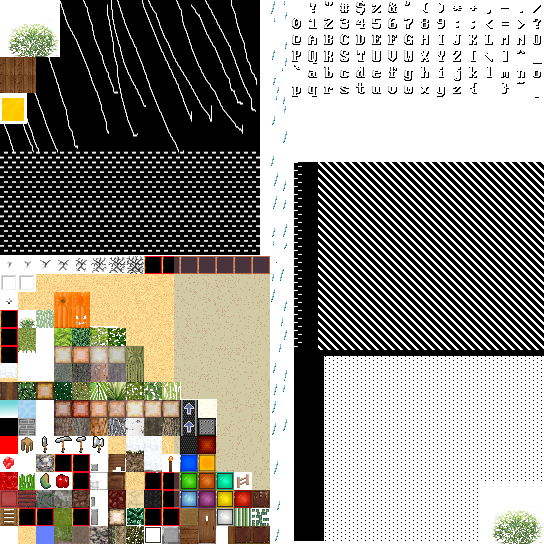
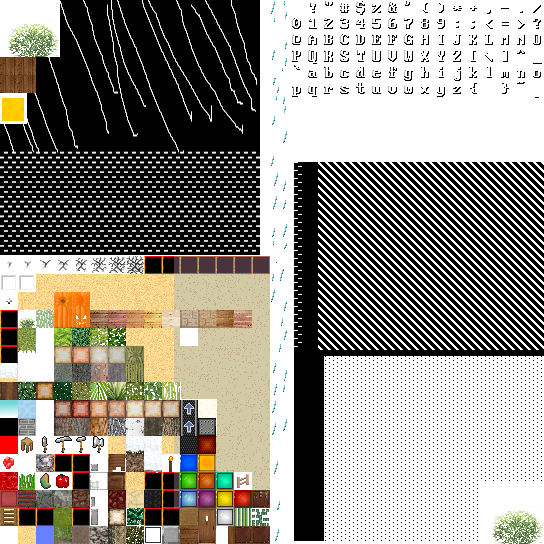
pumpkins and planks

Changed region(s): [[0.1562, 0.5625, 0.4688, 0.6562]]

diff --git a/lib/src/blockinfo.rs b/lib/src/blockinfo.rs
@@ -6,7 +6,7 @@ pub const BLOCK_DIRECTION_BITS: u32 =       0b0000_0000_0000_0011_0000_0000_0000
 pub const BLOCK_MARKED_FOR_DELETION: u32 = 0b0000_0000_0000_0100_0000_0000_0000_0000;
 pub struct Blocks {}
 
-pub const BLOCK_COUNT: u32 = 81;
+pub const BLOCK_COUNT: u32 = 90;
 
 static BREAKTIMES: [f32; BLOCK_COUNT as usize] = [
     0.1,
@@ -90,7 +90,12 @@ static BREAKTIMES: [f32; BLOCK_COUNT as usize] = [
     1.0, 
 
     1.0,
-    1.0
+    1.0,
+
+
+    1.0, 1.0, 1.0,
+    1.0, 1.0, 1.0,
+    1.0, 1.0, 1.0,
 ];
 
 static TEXS: [[(u8, u8); 3]; BLOCK_COUNT as usize] = [
@@ -201,6 +206,16 @@ static TEXS: [[(u8, u8); 3]; BLOCK_COUNT as usize] = [
 
             [(3, 12), (4, 13), (3, 13)],  // 79 Pumpkin
             [(4, 12), (4, 13), (3, 13)],  // 80 Jack o lantern
+
+            [(5, 12), (5, 12), (5, 12)],  // 81 Pine Planks
+            [(6, 12), (6, 12), (6, 12)],  // 82 Cedar Planks
+            [(7, 12), (7, 12), (7, 12)], // 83 Palm Planks
+            [(8, 12), (8, 12), (8, 12)], // 84 Joshua Planks
+            [(9, 12), (9, 12), (9, 12)], // 85 Birch Planks
+            [(10, 12), (10, 12), (10, 12)], // 86 Willow Planks
+            [(11, 12), (11, 12), (11, 12)], // 87 Beech Planks
+            [(12, 12), (12, 12), (12, 12)], // 88 Western Hemlock Planks
+            [(13, 12), (13, 12), (13, 12)], // 89 Eucalyptus Planks
         ];
 
 
@@ -305,6 +320,17 @@ impl Blocks {
             78 => {"Saguaro Block"}
             79 => {"Pumpkin"}
             80 => {"Jack o lantern"}
+            
+            81 => {"Pine Planks"}
+            82 => {"Cedar Planks"}
+            83 => {"Palm Planks"}
+            84 => {"Joshua Planks"}
+            85 => {"Birch Planks"}
+            86 => {"Willow Planks"}
+            87 => {"Beech Planks"}
+            88 => {"Western Hemlock Planks"}
+            89 => {"Eucalyptus Planks"}
+
             _ => {
                 "Unknown Item"
             }
@@ -462,7 +488,7 @@ impl Blocks {
             1 => {
                 "sandstepseries"
             }
-            6 | 64 | 66 | 68 | 70 | 72 | 74 | 76 => {
+            6 | 64 | 66 | 68 | 70 | 72 | 74 | 76 | 81..=89 => {
                 "woodstepseries"
             }
             4 => {

diff --git a/lib/src/climates.rs b/lib/src/climates.rs
@@ -7,7 +7,7 @@ use once_cell::sync::Lazy;
 
 use crate::vec;
 
-pub const VOX_MODEL_PATHS: [&'static str; 51] = [
+pub const VOX_MODEL_PATHS: [&'static str; 52] = [
     path!("assets/voxelmodels/bush.vox"),
     path!("assets/voxelmodels/tree1.vox"),
     path!("assets/voxelmodels/tree2.vox"),
@@ -67,6 +67,7 @@ pub const VOX_MODEL_PATHS: [&'static str; 51] = [
 
     path!("assets/voxelmodels/figtree1.vox"),
     path!("assets/voxelmodels/figtree2.vox"),
+    path!("assets/voxelmodels/pumpkin.vox")
 ];
 
 #[derive(PartialEq, FromPrimitive, Clone, Copy)]
@@ -133,6 +134,7 @@ pub enum VoxelModel {
     FigTree1 = 49,
     FigTree2 = 50,
 
+    Pumpkin = 51,
 }
 
 #[derive(Clone, Copy, PartialEq, Eq, Hash)]
@@ -186,6 +188,7 @@ pub enum TreeType {
     Eucalyptus,
     Saguaro,
     FigTree,
+    Pumpkin
 }
 
 pub const MAX_TREES_PER_CLIMATE: usize = 4;
@@ -301,6 +304,11 @@ pub fn get_vox_mod_from_treetype(
             v.push(VoxelModel::FigTree2);
             Some(v)
         }
+        TreeType::Pumpkin => {
+            let mut v = ArrayVec::new();
+            v.push(VoxelModel::Pumpkin);
+            Some(v)
+        }
     }
 }
 
@@ -355,6 +363,7 @@ pub fn get_tree_types(climate: &Climate) -> &'static [TreeType] {
                 &[
                     TreeType::Oak,
                     TreeType::Willow,
+                    TreeType::Pumpkin
                 ],
             );
             map.insert(

diff --git a/lib/src/recipes.rs b/lib/src/recipes.rs
@@ -39,7 +39,7 @@ impl RecipeEntry {
 
 
 
-pub static RECIPES: Lazy<[Recipe; 25]> = Lazy::new(|| 
+pub static RECIPES: Lazy<[Recipe; 36]> = Lazy::new(|| 
     {
 
 
@@ -71,6 +71,18 @@ pub static RECIPES: Lazy<[Recipe; 25]> = Lazy::new(||
             (vec![(42, 1), (22, 1)], (46, 1), true),
             (vec![(35, 1)], (47, 10), true),
             (vec![(10, 1), (5, 1)], (49, 4), true),
+            (vec![(49, 1), (79, 1)], (80, 1), true),
+
+            (vec![(49, 1), (79, 1)], (80, 1), true),
+            (vec![(53, 1)], (81, 4), true),
+            (vec![(56, 1)], (82, 4), true),
+            (vec![(58, 1)], (83, 4), true),
+            (vec![(60, 1)], (84, 4), true),
+            (vec![(64, 1)], (85, 4), true),
+            (vec![(68, 1)], (86, 4), true),
+            (vec![(70, 1)], (87, 4), true),
+            (vec![(72, 1)], (88, 4), true),
+            (vec![(74, 1)], (89, 4), true),
         ];
 
 

diff --git a/lib/src/chunk.rs b/lib/src/chunk.rs
@@ -1001,8 +1001,8 @@ impl ChunkSystem {
 
         self.set_block(spot, block, user_power);
 
-        let blockislight = Blocks::is_light(block);
-        let blockwaslight = Blocks::is_light(existingblock);
+        let blockislight = Blocks::is_light(block & Blocks::block_id_bits());
+        let blockwaslight = Blocks::is_light(existingblock &    Blocks::block_id_bits());
 
         let light = blockislight || blockwaslight;
 
@@ -1067,8 +1067,8 @@ impl ChunkSystem {
 
         self.set_block_no_sound(spot, block, user_power);
 
-        let blockislight = Blocks::is_light(block);
-        let blockwaslight = Blocks::is_light(existingblock);
+        let blockislight = Blocks::is_light(block & Blocks::block_id_bits());
+        let blockwaslight = Blocks::is_light(existingblock & Blocks::block_id_bits());
 
         let light = blockislight || blockwaslight;
 
